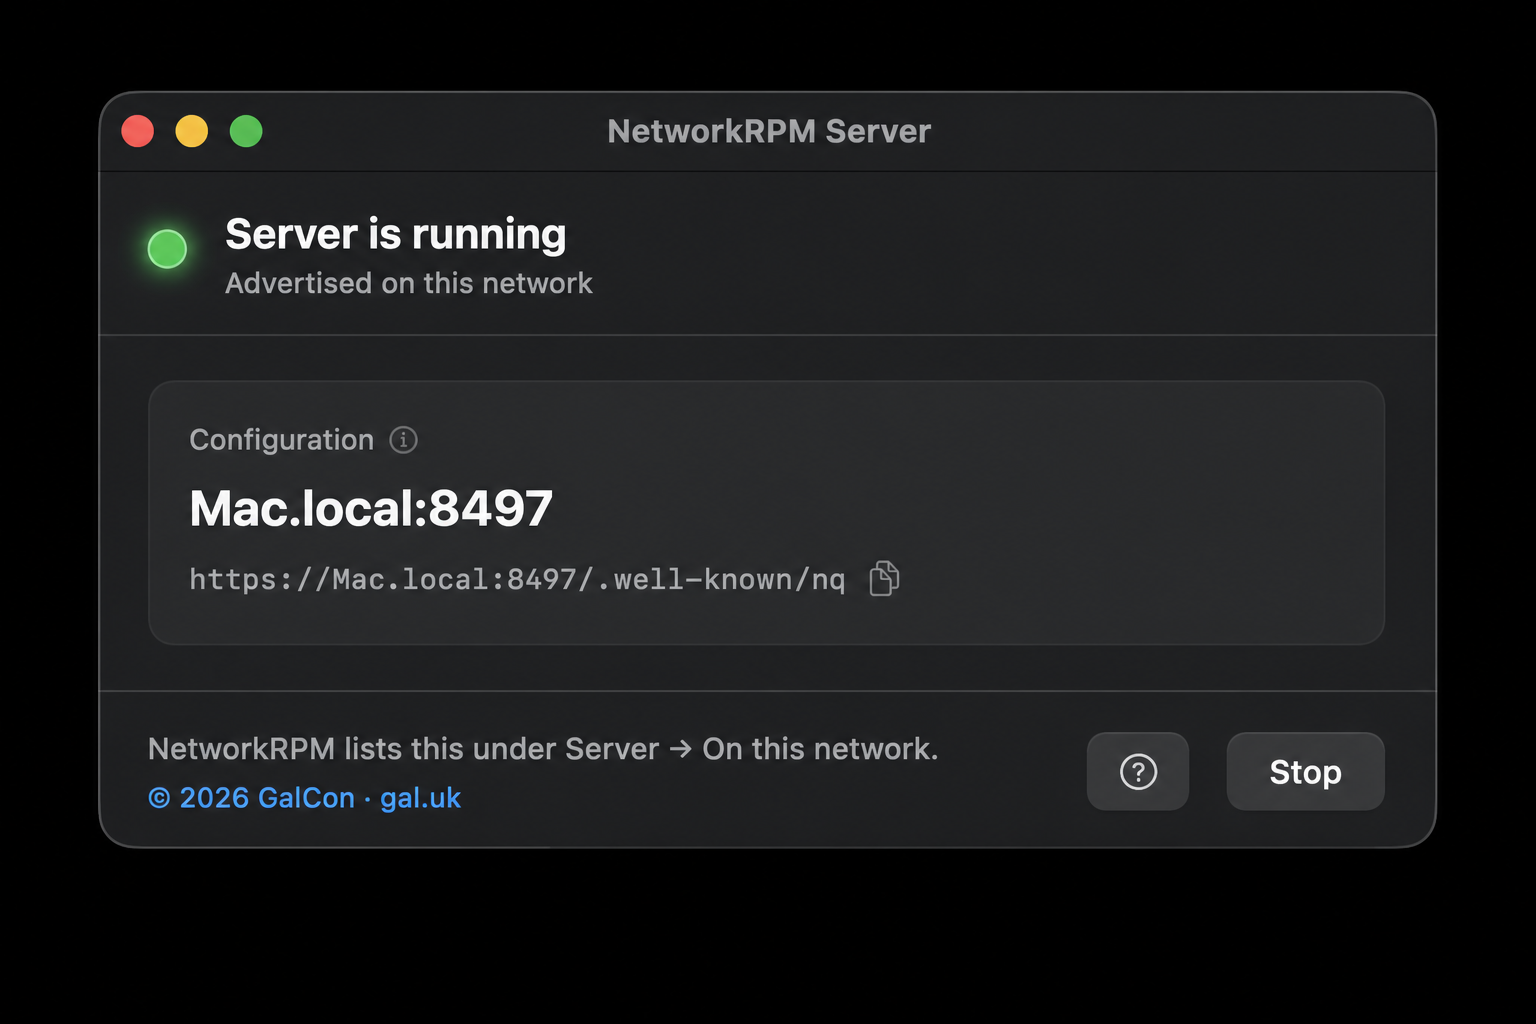
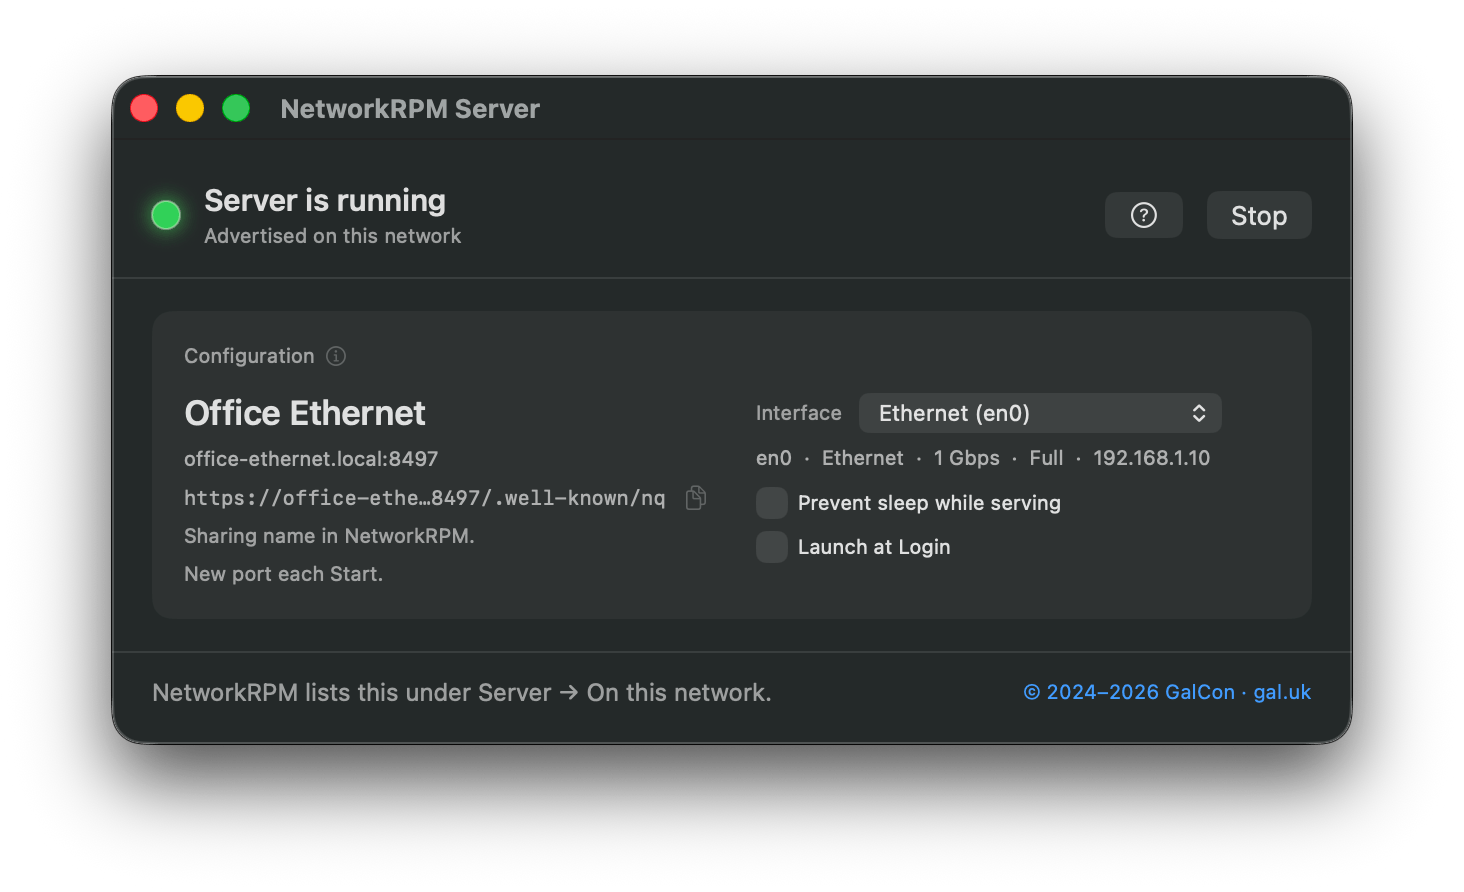
Update README and screenshots for NetworkRPM 2.3.1

diff --git a/README.md b/README.md
@@ -1,16 +1,18 @@
 # NetworkRPM
 
-A small macOS app from [GalCon](https://www.gal.uk). It tests how fast your network is and how it actually feels when the link is under pressure — on the **internet** (WAN, using Apple’s servers), or against another Mac on your **LAN or Wi-Fi** running **NetworkRPM Server**. The same measurement tells you whether the weak point is the WAN, the wireless hop, or the wired path in the building.
+A small macOS app from [GalCon](https://www.gal.uk). It measures how fast your network is and how it actually feels when the link is under pressure — whether on the **internet** (WAN, using Apple’s servers) or against another Mac on the **Local Network** running **NetworkRPM Server**. The same measurement helps identify whether the bottleneck is the WAN, the wireless hop, or the wired infrastructure in the building. **Repeat** can schedule tests on an interval and log each run, letting you monitor performance over time instead of relying on a single snapshot.
 
-![NetworkRPM](NetworkRPM.png)
+<p align="center">
+  <img src="NetworkRPM-social.png" alt="NetworkRPM">
+</p>
 
 ## Why responsiveness matters
 
 Speed tells you how wide the pipe is. But a wide pipe can still make video calls stutter, games lag, or pages feel sticky — especially on a shared or loaded connection.
 
-Responsiveness measures exactly that. It probes the network while the link is saturated, so the score reflects how things actually behave when it matters. Idle delay, by contrast, is the quiet-link round trip — useful context, but an optimistic reading.
+Responsiveness measures how the connection holds up under load. It probes the network while the link is saturated, reflecting how things actually behave during heavy traffic. Idle delay, by contrast, is the quiet-link round trip — useful context, but an optimistic baseline.
 
-The Responsiveness score is in RPM (round trips per minute). Higher is better. Lower milliseconds are better.
+The Responsiveness score is reported in RPM (round trips per minute); higher is better. Latency reflects round-trip delay in milliseconds; lower is better.
 
 More background: [Apple Network Responsiveness](https://support.apple.com/en-us/HT212313) and the [Network Quality community wiki](https://github.com/network-quality/community/wiki).
 
@@ -23,7 +25,7 @@ macOS 14.6 or later. Universal (Apple silicon and Intel). NetworkRPM and Network
 - **DMG:** [Download NetworkRPM](https://github.com/ofirgalcon/NetworkRPM/releases/latest/download/NetworkRPM.dmg)
 - **PKG:** [Download the installer](https://github.com/ofirgalcon/NetworkRPM/releases/latest/download/NetworkRPM.pkg)
 
-**NetworkRPM Server (the LAN target)**
+**NetworkRPM Server (Local Network)**
 
 - **DMG:** [Download NetworkRPM Server](https://github.com/ofirgalcon/NetworkRPM/releases/latest/download/NetworkRPM-Server.dmg)
 - **PKG:** [Download the installer](https://github.com/ofirgalcon/NetworkRPM/releases/latest/download/NetworkRPM-Server.pkg)
@@ -37,90 +39,119 @@ If you still have the old **NetworkQuality** app, quit it and remove it after in
 ## Using the app
 
 1. Open **NetworkRPM**.
-2. Pick your options in the controls at the top of the window, then click **Test**. Speed and RPM update while the test runs. **Stop** cancels a run in progress; figures collected so far stay on screen.
-3. **Save** (⌘S) writes the last result to a text file, including the Ethernet or Wi-Fi snapshot taken when the test started.
-4. Hover any **ⓘ** for a plain-English explanation of that control or result.
-5. The **?** next to Save, or **Help → NetworkRPM Help**, opens this page.
+2. Adjust options if needed (defaults work out of the box), then click **Test**. Speed and RPM update while the test runs. Click **Stop** to cancel the active run and any remaining repeats; numbers collected so far stay on screen.
+3. **Repeat** (next to Test) schedules multiple runs. When Repeat is on, **Every** sets the idle wait interval between runs. The first **Test** with Repeat on prompts for a CSV destination; each finished run is automatically appended, so stopping early still leaves previously written rows intact.
+4. **Save** (⌘S) writes the latest result as text — including Ethernet link metrics (speed, duplex, media) or Wi-Fi conditions (at start, lowest under load, and completion).
+5. The **chart** button next to Help (or **File → Repeat Graph**) plots the Repeat CSV in real time, displaying RPM and Mbps along with Wi-Fi rate and SNR when recorded. Use **File → Open Repeat CSV…** (or **Open…** on the graph) to review an older file; **Open…** is disabled while Repeat is active.
+6. Hover over the info icon next to any control or result for a plain-English explanation. The **?** button, or **Help → NetworkRPM Help**, opens this page.
+
+<p align="center">
+  <img src="NetworkRPM-server-menu.png" width="66%" alt="Server menu">
+</p>
 
 | Option | What it does |
 | --- | --- |
-| **Interface** | Which connection to test. Automatic uses your Mac’s default. Only connections currently in use appear here. Bind to Wi-Fi or Ethernet when you want to compare those paths. |
-| **Mode** | Parallel tests upload and download at the same time. Sequential does them one after the other. |
-| **Protocol** | Automatic picks for you. Force HTTP/2 or HTTP/3 (QUIC) if you need to compare protocols. |
-| **Time** | Cap how long the test runs, or leave it Automatic so it stops when it has enough samples. |
-| **Server** | Apple’s internet servers, or a Network Quality server on this network — including **NetworkRPM Server**. **Custom URL…** only if it is not listed. Recents keeps the last 5. |
+| **Interface** | Which connection to test. Automatic is selected by default and follows the Mac’s primary route (displaying the interface name in parentheses). Only active network connections appear in this menu. Bind directly to Wi-Fi or Ethernet to compare those paths. A connected **VPN** is listed separately; those results measure the tunnel rather than the underlying physical link. |
+| **Mode** | Parallel tests upload and download at the same time. Sequential tests them one after the other. |
+| **Protocol** | Automatic chooses for you. Force HTTP/2 or HTTP/3 (QUIC) to compare protocols. HTTP/3 is omitted for servers on the Local Network, as local servers rarely support QUIC. |
+| **Time** | How long **each** run may last. Set a cap, or leave Automatic so it finishes once it collects sufficient samples. Automatic displays total data transferred beside the progress bar. |
+| **Server** | Choose Apple’s internet servers or a local Network Quality server — including **NetworkRPM Server**. Discovered servers appear under **Local Network** with their connection details (`Ethernet · 1 Gbps` or `Wi-Fi`). Use **Custom URL…** at the bottom (or **File → Custom Server URL…**) for manual endpoints. Recents remembers the last 5. |
+| **Test** | Runs the test against the selected server. When targeting a server under **Local Network**, the Test button menu offers **Compare Internet and …** (Repeat must be Off). If that server is connected via Wi-Fi, slow Ethernet, or a VPN, Compare prompts for confirmation first because the server's link becomes the bottleneck. After a comparison, Save exports both runs. Remembered servers that are currently offline are listed under Recents with Test disabled until they return. |
+| **Repeat** | Located next to Test; sets how many times to run. Off runs a single test. While Repeat is active — including the pause between runs — the Mac stays awake so system idle sleep does not throttle a test. The display can still sleep and the screen can lock. |
+| **Every** | Appears next to Repeat when Repeat is on. Sets the idle wait after a run finishes before the next begins. Tests never overlap. |
 
-The test saturates the path you chose for as long as it runs. Avoid a metered connection, or one someone else is relying on.
+The test saturates the selected path for its entire duration — and again on every repeat. Avoid running tests over metered connections or links that others depend on. Save exports the most recent finished run as text, even during the pause between repeats. The Repeat CSV is the log of the whole schedule.
+
+<p align="center">
+  <img src="NetworkRPM-repeat-graph.png" width="66%" alt="Repeat Graph">
+</p>
 
 ## What you’re looking at
 
-**Uplink** / **Download** — the Mbps the connection can carry in each direction. Think of it as pipe width.
+**Uplink** / **Download** — the bandwidth in Mbps the connection can carry in each direction. Think of it as pipe width.
 
-**Accuracy** (Low / Medium / High) tells you how much to trust a reading, not how good the connection is. It sits next to speed, idle, and responsiveness, and means the same thing in each place — you can have Medium quality with High accuracy.
+**Accuracy** (Low / Medium / High) indicates confidence in the measurement, not connection quality. It appears under both speed and responsiveness with the same meaning — a connection can have Medium quality with High accuracy.
 
-**Idle** — round-trip delay when the link is quiet. The large figure is RPM, with the milliseconds underneath. Higher RPM and lower ms are both good.
+**Responsiveness** — how the network performs when the link is saturated. The primary number is RPM (round trips per minute). The Low / Medium / High / Very High label underneath describes connection quality under load; High or Very High means it held up smoothly without lagging.
 
-**Responsiveness** — how the network behaves when the path is loaded, scored Low / Medium / High / Very High. High or Very High means the experience held up under traffic.
+**Idle / Transport / Security / HTTP / HTTP loaded** — round-trip latency when the link is quiet (Idle), followed by each stage of connection setup and transfer under load. Higher RPM and lower milliseconds are both better. Transport is often blank when using HTTP/3.
 
-**Transport / Security / HTTP / HTTP loaded** — delay at each stage while the link is busy. Transport is often blank when you’re running HTTP/3.
+**Caption** — displays the active protocol and interface, followed by the local server name or the public WAN IP on an internet test (provided by Cloudflare). An optional **Look up ISP** button queries Team Cymru via Cloudflare DNS for the network operator. Save writes these details alongside the local IP and Apple test endpoint.
 
-**Caption** — protocol and interface, then the LAN server name, or this connection’s WAN IP and ISP on an internet test. Save writes those details, plus local IP and the Apple test endpoint.
+**Link tiles** — For Ethernet, the tiles display **Link speed / Duplex / Media** captured when the test started. For Wi-Fi, **Wi-Fi rate / SNR / Signal / Channel** update continuously throughout the run. After a test, if radio conditions fluctuated, the primary figure displays the weakest reading (labelled **min**), with starting and ending values underneath. A channel change indicates that the Mac roamed to another access point.
 
-**Link tiles** — **Link speed / Duplex / Media** on Ethernet, or **Rate / SNR / RSSI / Channel** on Wi-Fi, captured the moment you clicked Test.
+Colour helps you interpret results at a glance:
 
-Colour is there to help you read a result at a glance:
-
-- **Uplink is teal, Download is blue** — so you can tell the two directions apart without squinting.
-- **Responsiveness** turns green for a good experience (High or Very High), orange for Medium, and red for Low.
-- **Idle and the latency row** shade greener as RPM climbs.
-- **Wi-Fi SNR** shades greener with a stronger signal.
+- **Uplink is teal, Download is blue** — making the two directions easy to distinguish.
+- **Responsiveness** colours the RPM figure: red below 300, orange from 300 to 1000, and green above 1000 (with smooth blends across boundaries). The Low / Medium / High / Very High text underneath reflects the test’s quality grade, while the colour strictly follows the numerical RPM.
+- **The latency row** shades greener as RPM increases.
+- **Wi-Fi SNR** shades greener with stronger signal quality. During and after a test, the colour follows the lowest SNR recorded.
 
 ## NetworkRPM Server
 
-**NetworkRPM Server** is a small companion app. It runs macOS `networkQuality` as a local server so **NetworkRPM** on another Mac can test the network between them — office Wi-Fi, Ethernet, a VLAN — without sending that load to the internet.
+**NetworkRPM Server** is a small companion app. It runs macOS `networkQuality` as a local server so **NetworkRPM** on another Mac can test the network between them — office Wi-Fi, Ethernet, or a VLAN — without sending test traffic out to the internet.
 
-![NetworkRPM Server](NetworkRPM-Server.png)
-
-![LAN test](NetworkRPM-lan.png)
+<p align="center">
+  <img src="NetworkRPM-Server.png" width="66%" alt="NetworkRPM Server">
+</p>
 
 ### Set up the server
 
 1. Install **NetworkRPM Server** on a second Mac on the same network. It is a separate download from NetworkRPM.
-2. Open it. It picks a free port and starts automatically.
-3. Wait until the LED is **green** (running). Yellow means starting; red means stopped.
-4. Leave it open for as long as you want others to test against this Mac.
+2. Open it. The server selects an available port and starts automatically. The large name is this Mac’s Sharing name — which is how NetworkRPM lists it under **Local Network** (rather than by raw `hostname:port`). Interface, link speed, and local IP appear below the **Interface** popup. Copy the configuration URL only if Bonjour is blocked on your network; clicking **Start** chooses a new port, so older copied URLs will expire.
+3. Wait until the status LED turns **green** (running). Yellow indicates starting; blue indicates a client is actively testing against this Mac; red indicates stopped.
+4. Leave the window open while you want others to test against this Mac. Closing the window quits the app and stops the server. Enable **Launch at Login** to start it automatically upon login.
 
-While the server runs, macOS is asked not to App-Nap or throttle it, so a test from another Mac is not slowed by this Mac going idle.
+**Interface** binds the server to a specific network adapter — useful on dual-homed Macs to ensure clients test over the intended Ethernet link. Automatic follows the default route.
 
-### Run a LAN or Wi-Fi test
+While running, **Prevent sleep while serving** (enabled by default) keeps the Mac awake so idle power management does not throttle tests from other Macs. The display can still sleep and the screen can lock. Uncheck this in the server window if you prefer to allow sleep.
 
-1. On the Mac you want to measure, open **NetworkRPM**.
-2. In the **Server** popup, choose the other Mac under **On this network**. NetworkRPM finds it by itself — you don’t need the URL.
-3. Optionally set **Interface** to Wi-Fi or Ethernet if you want to force that path.
-4. Click **Test**.
+### Test the Local Network
 
-That run stresses the local path. Compare it with the **Server** popup → **Internet** on the same Mac to see whether the bottleneck is the LAN or the WAN.
+1. On the Mac you want to test from, open **NetworkRPM**.
+2. In the **Server** popup, select the other Mac under **Local Network**. NetworkRPM discovers it automatically via Bonjour — no manual URL entry required.
+3. Optionally set **Interface** to Wi-Fi or Ethernet if you want to test a specific adapter.
+4. Click **Test** to measure the local connection between the two Macs.
 
-### If the server does not appear
+### Compare Internet and Local Network (Multi-Test Mode)
 
-Bonjour can be blocked on some networks. That is uncommon. On the server Mac, copy the configuration URL with the small icon next to it, then on the test Mac choose **Custom URL…** and paste it. NetworkRPM already skips the self-signed certificate check for local servers.
+To determine whether a bottleneck lies with the **internet** or the **Local Network**, select the remote server under **Local Network** and choose **Compare Internet and …** from the **Test** button menu (Repeat must be Off).
+
+NetworkRPM runs two consecutive tests in a single automated session — first against Apple’s internet servers, and then immediately against the local server. When both runs complete, a side-by-side comparison strip appears below the connection details:
+
+- **Uplink & Download** — compares bandwidth across both paths to reveal internet capacity versus local infrastructure limits.
+- **Responsiveness & HTTP loaded** — compares RPM and loaded latency side-by-side to highlight where delays occur under traffic.
+- **Automated verdict** — analyzes the results to explain which hop is the limiting factor (for example, *“The local path held up. The internet path did not”* or *“Both paths held up”*), accompanied by WAN uplink headroom notes on fast local connections.
+- **Unified export** — clicking **Save** (⌘S) exports full metrics from both runs along with the comparison verdict in a single file.
+
+<p align="center">
+  <img src="NetworkRPM-compare.png" width="66%" alt="Compare Internet and Local Network">
+</p>
+
+If the remote server is connected via Wi-Fi, slow Ethernet (< 1 Gbps), or a VPN, Compare prompts for confirmation before starting because the server's link can become the bottleneck.
+
+For the most accurate diagnostics, connect the **server** Mac to gigabit (or faster) Ethernet, and place the **tester** Mac on the link you want to evaluate. Two Macs testing across Wi-Fi measure two wireless links sharing an access point rather than the building infrastructure. Likewise, a 100 Mbps adapter on the server caps the entire test at 100 Mbps. NetworkRPM flags Wi-Fi or slow Ethernet when reported by the server; otherwise Compare indicates that the remote link type could not be determined.
 
 ### Stop the server
 
-Click **Stop** to take it down without quitting. The LED turns red. **Start** brings it back on a new port. Quit also stops the server.
+Click **Stop** to take the server down without quitting the app (the LED turns red). Click **Start** to bring it back online on a new port. Closing the window or choosing Quit also stops the server.
+
+### If the server does not appear
+
+Bonjour discovery can occasionally be restricted on enterprise or segmented networks. If the server does not appear automatically, copy the configuration URL from the server Mac (using the copy icon next to it), then on the testing Mac choose **Custom URL…** from the **Server** popup and paste it. NetworkRPM automatically handles the self-signed TLS certificate required for local testing.
 
 ## Deploying
 
-Each installer pkg drops its app into `/Applications`. No restart needed — quit the app first if it is already open.
+Each installer pkg installs its app into `/Applications`. No restart is required — quit any running copy before installing.
 
 | App | Receipt | Installs |
 | --- | --- | --- |
 | NetworkRPM | `com.gal.NetworkQuality` | `/Applications/NetworkRPM.app` |
 | NetworkRPM Server | `com.gal.NetworkRPMServer` | `/Applications/NetworkRPM Server.app` |
 
-**Munki / Jamf:** import the pkgs from [Releases](https://github.com/ofirgalcon/NetworkRPM/releases/latest). The pkg receipt and the app’s short version are the full version, matching the GitHub tag. Pin a version with the tagged URL (`.../releases/download/vX.Y.Z/NetworkRPM.pkg` or `.../releases/download/vX.Y.Z/NetworkRPM-Server.pkg`).
+**Munki / Jamf:** Import the pkgs from [Releases](https://github.com/ofirgalcon/NetworkRPM/releases/latest). The pkg receipt and the app’s short version match the GitHub release tag. To pin a specific version, use the versioned download URL (`.../releases/download/vX.Y.Z/NetworkRPM.pkg` or `.../releases/download/vX.Y.Z/NetworkRPM-Server.pkg`).
 
-**Update checks:** both apps look on GitHub for a newer version about once a day, and **Check for Updates…** does the same when someone asks. They never replace the app. To turn that off, set `EnableUpdateChecks` to `false` in each app’s preference domain. Absent or `true` leaves checks on. A configuration profile custom settings payload with those domains works the same way.
+**Update checks:** Both apps check GitHub for updates approximately once per day, and **Check for Updates…** performs an immediate check on demand. They notify of updates but never overwrite the running app. To disable automatic checks, set `EnableUpdateChecks` to `false` in each app’s preference domain (omitting the key or setting `true` leaves checks enabled). A configuration profile with a Custom Settings payload for these domains works identically.
 
 ```bash
 sudo defaults write /Library/Preferences/com.gal.NetworkQuality EnableUpdateChecks -bool false
@@ -131,4 +162,4 @@ sudo defaults write /Library/Preferences/com.gal.NetworkRPMServer EnableUpdateCh
 
 Copyright © 2024–2026 [GalCon](https://www.gal.uk).
 
-Free to use and to pass on at no charge — personal or commercial — as long as you credit GalCon and include a link to [gal.uk](https://www.gal.uk). You may not sell the app.
+Free to use and redistribute at no charge — for personal or commercial use — provided you credit GalCon and include a link to [gal.uk](https://www.gal.uk). You may not sell the app.
